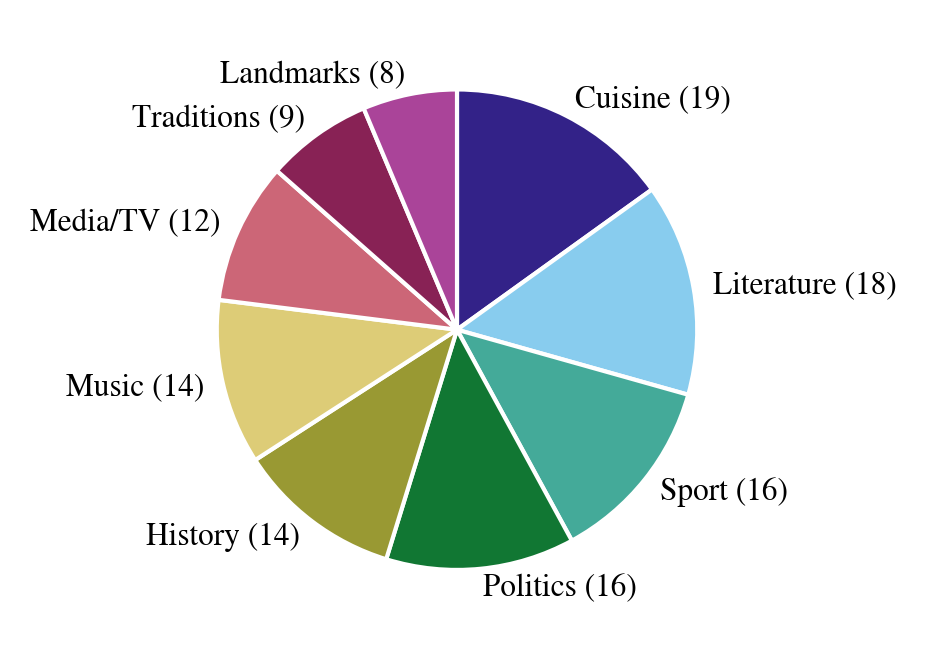
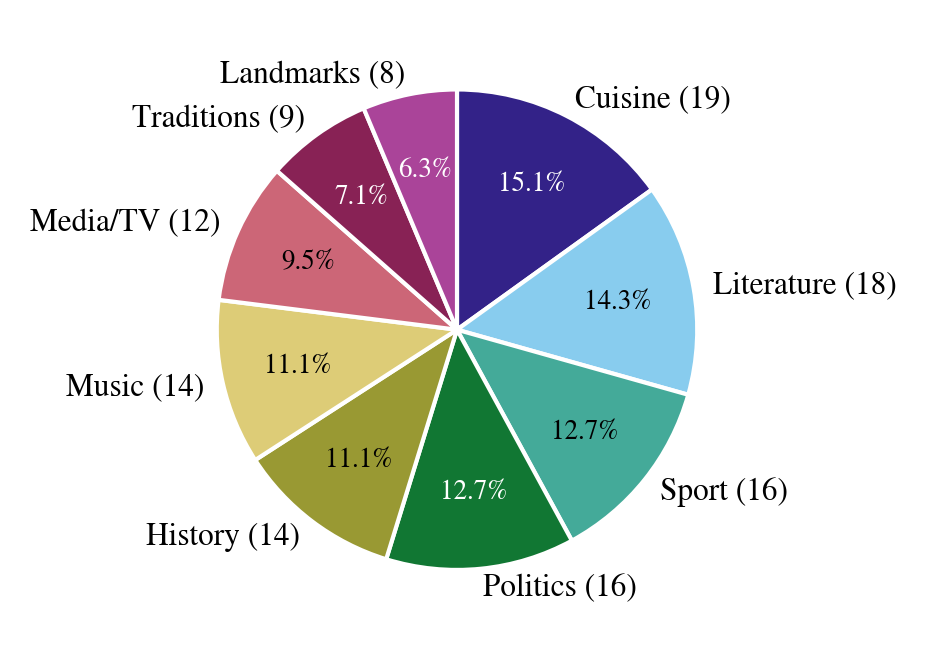
Show percentages inside pie chart slices

diff --git a/scripts/make_paper_assets.py b/scripts/make_paper_assets.py
@@ -388,10 +388,18 @@ def fig_category_pie():
               "#DDCC77", "#CC6677", "#882255", "#AA4499"]
 
     fig, ax = plt.subplots(figsize=(3.2, 2.6))
-    ax.pie(sizes, labels=labels, colors=colors, startangle=90,
-           counterclock=False, labeldistance=1.08,
-           wedgeprops=dict(edgecolor="white", linewidth=1.0),
-           textprops=dict(fontsize=7.5, color=INK))
+    wedges, _, autotexts = ax.pie(
+        sizes, labels=labels, colors=colors, startangle=90,
+        counterclock=False, labeldistance=1.08,
+        autopct="%.1f%%", pctdistance=0.68,
+        wedgeprops=dict(edgecolor="white", linewidth=1.0),
+        textprops=dict(fontsize=7.5, color=INK))
+    # koyu dilimde beyaz, acik dilimde koyu yuzde metni
+    light = {"#88CCEE", "#DDCC77", "#999933", "#44AA99", "#CC6677"}
+    for w, t in zip(wedges, autotexts):
+        t.set_fontsize(6.5)
+        hexcol = matplotlib.colors.to_hex(w.get_facecolor()).upper()
+        t.set_color(INK if hexcol in {c.upper() for c in light} else "white")
     ax.set_aspect("equal")
     fig.savefig(FIGURES / "category_pie.png")
     plt.close(fig)
